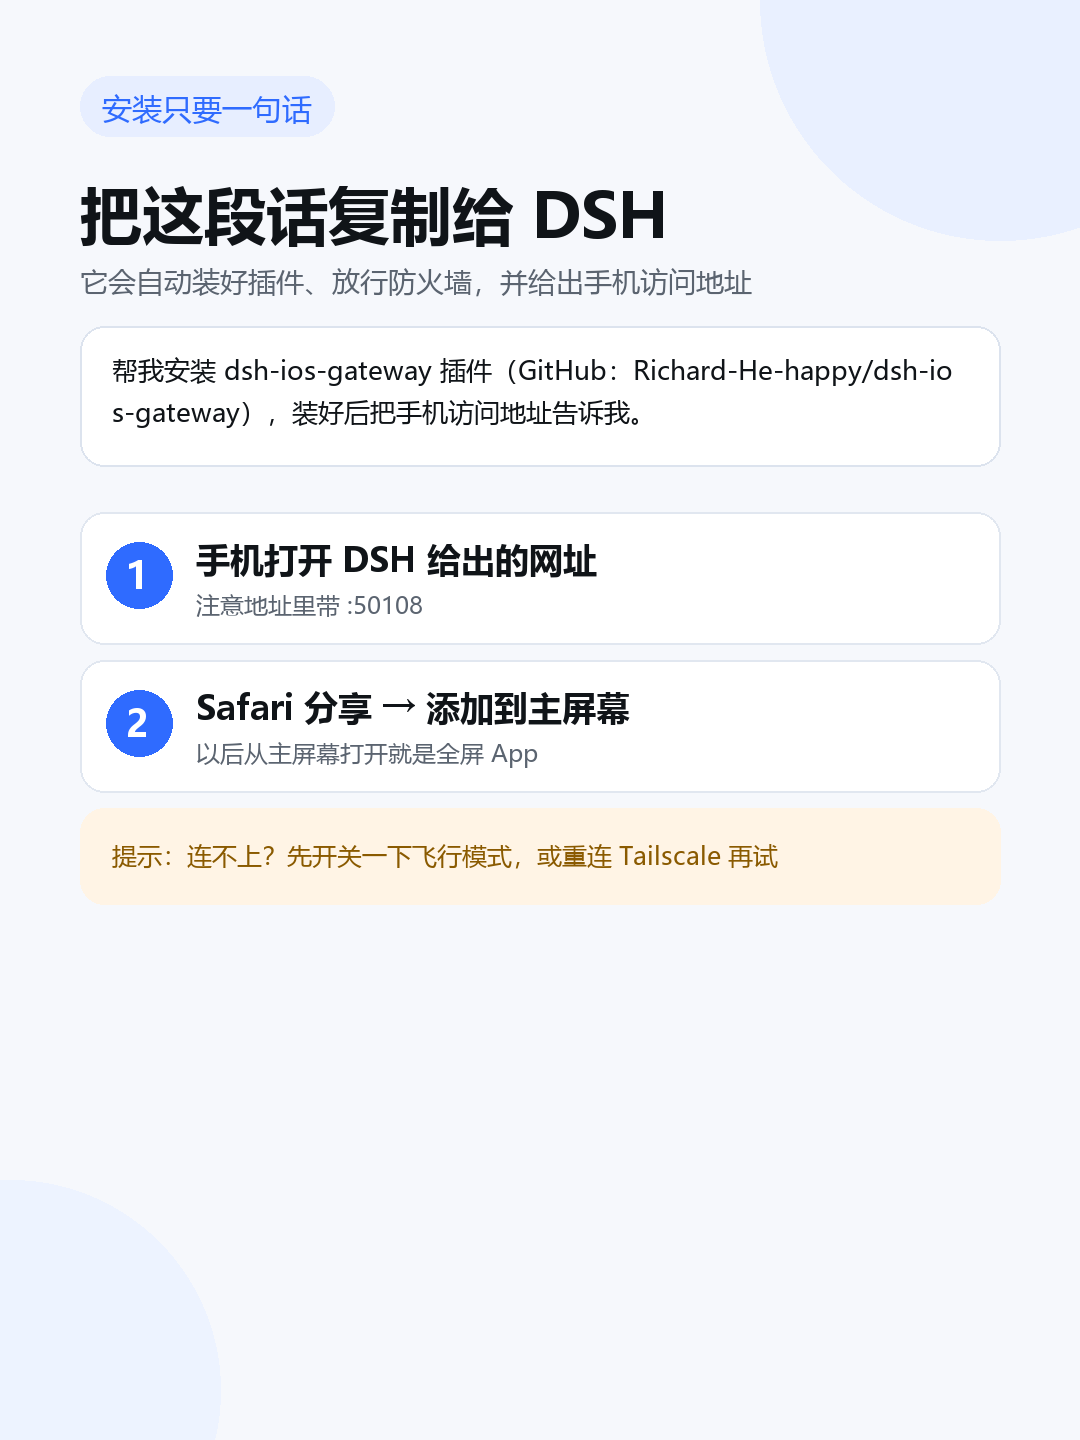
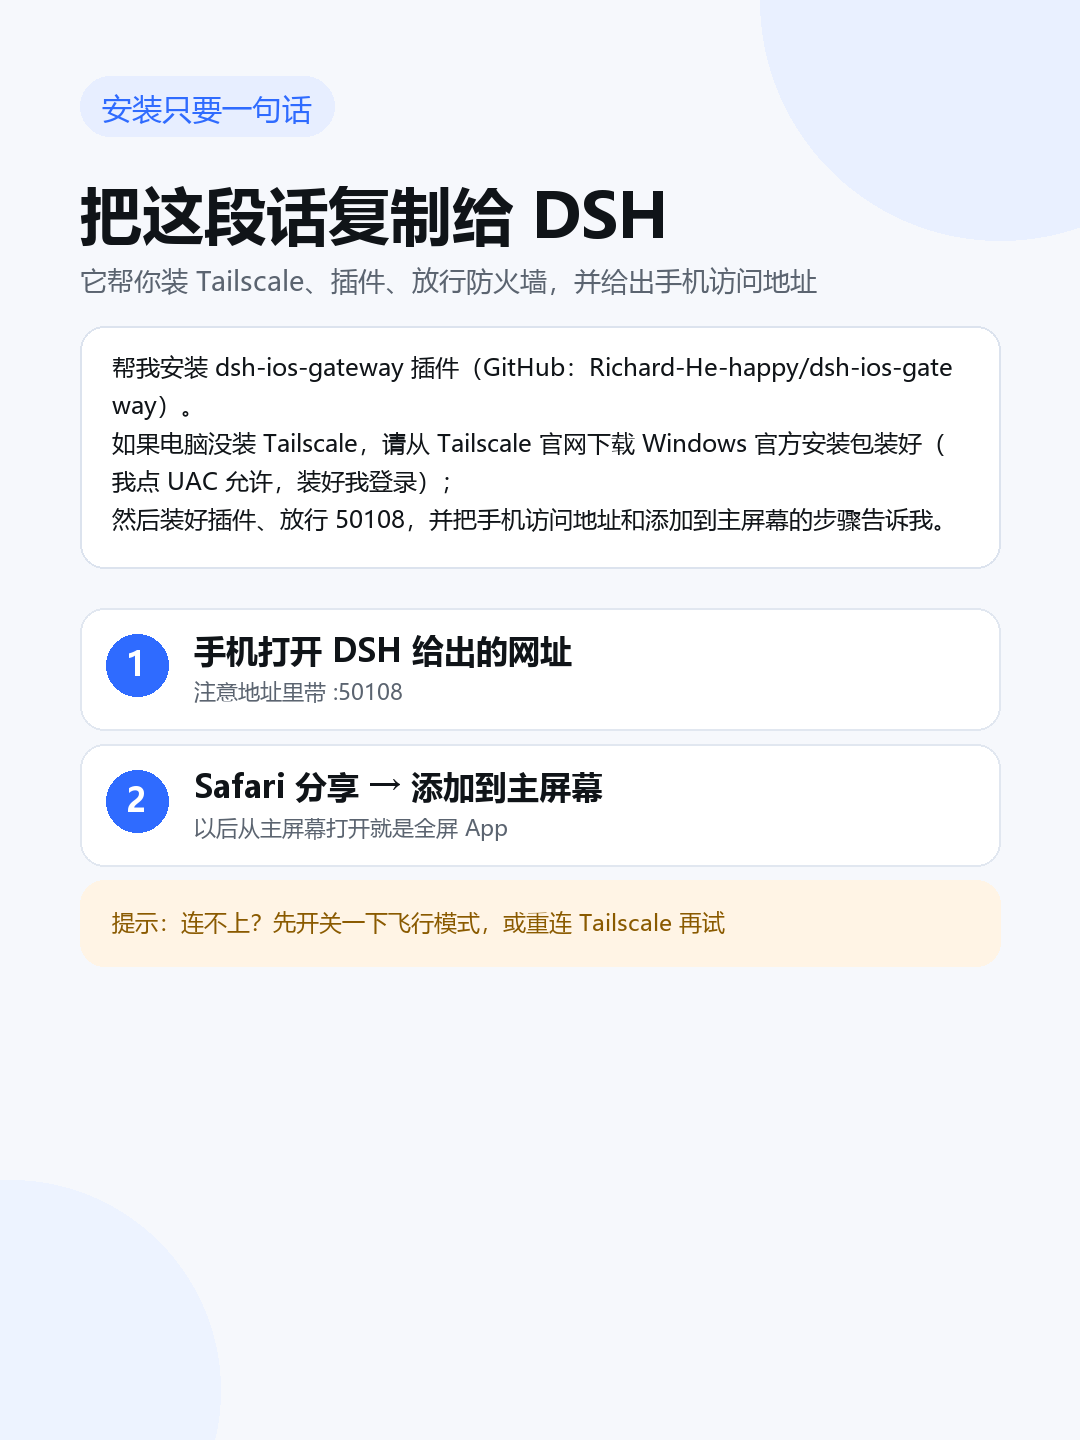
docs: let DSH install Tailscale too; full copy-paste prompt

Changed region(s): [[0.0611, 0.25, 0.9472, 0.6562], [0.3056, 0.1875, 0.7639, 0.2188], [0.0917, 0.1875, 0.275, 0.2188]]

diff --git a/README.md b/README.md
@@ -82,13 +82,15 @@ DSH 桌面端的 Web GUI 默认只监听 `127.0.0.1` 的随机端口，并有 Ho
 复制下面整段，直接发给你的 **DSH 对话**（需要给 DSH 完整的文件/命令权限）：
 
 ```text
-帮我安装 DSH iOS Gateway（一个让 iPhone/iPad 远程使用 DSH 的开源插件）：
-1. 从 GitHub 获取仓库：Richard-He-happy/dsh-ios-gateway
-2. 按仓库里的 INSTALL.md，把它安装为 DSH 插件并启用
-3. 放行 Windows 防火墙 TCP 50108（需要管理员权限）
+帮我安装 DSH iOS Gateway（让 iPhone/iPad 远程使用 DSH 的开源插件）：
+1. 检查电脑是否已安装 Tailscale；如果没有，请从 Tailscale 官网下载 Windows 官方安装包并安装（我会点一次 UAC 允许），装好后提醒我登录 Tailscale
+2. 从 GitHub 获取仓库 Richard-He-happy/dsh-ios-gateway，按仓库里的 INSTALL.md 把它安装为 DSH 插件并启用
+3. 放行 Windows 防火墙 TCP 50108
 4. 安装完成后，把手机访问网址和“添加到主屏幕”的步骤告诉我
 5. 自检：http://127.0.0.1:50108/__dsh_mobile/health 返回正常
 ```
+
+> 电脑端 Tailscale 也可以交给 DSH 下载安装；你只需要在 UAC 弹窗点一次「是」、然后在 Tailscale 里登录自己的账号。
 
 装好之后只需要 3 步：
 

diff --git a/INSTALL.md b/INSTALL.md
@@ -11,13 +11,15 @@
 复制下面整段，直接发给你的 **DSH 对话**（需要给 DSH 完整的文件/命令权限）：
 
 ```text
-帮我安装 DSH iOS Gateway（一个让 iPhone/iPad 远程使用 DSH 的开源插件）：
-1. 从 GitHub 获取仓库：Richard-He-happy/dsh-ios-gateway
-2. 按仓库里的 INSTALL.md，把它安装为 DSH 插件并启用
-3. 放行 Windows 防火墙 TCP 50108（需要管理员权限）
+帮我安装 DSH iOS Gateway（让 iPhone/iPad 远程使用 DSH 的开源插件）：
+1. 检查电脑是否已安装 Tailscale；如果没有，请从 Tailscale 官网下载 Windows 官方安装包并安装（我会点一次 UAC 允许），装好后提醒我登录 Tailscale
+2. 从 GitHub 获取仓库 Richard-He-happy/dsh-ios-gateway，按仓库里的 INSTALL.md 把它安装为 DSH 插件并启用
+3. 放行 Windows 防火墙 TCP 50108
 4. 安装完成后，把手机访问网址和“添加到主屏幕”的步骤告诉我
 5. 自检：http://127.0.0.1:50108/__dsh_mobile/health 返回正常
 ```
+
+> 电脑端 Tailscale 也可以让 DSH 负责下载安装；你只需要点一次 UAC「是」，然后在 Tailscale 里登录自己的账号。
 
 DSH 会帮你下载、安装插件、放行防火墙，并给出手机访问地址。
 
